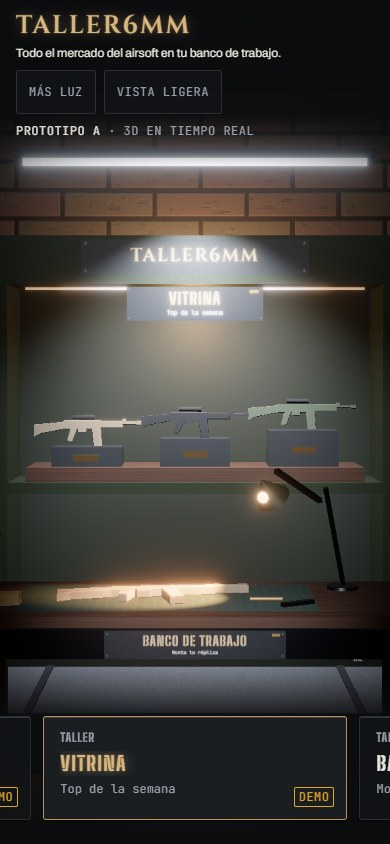
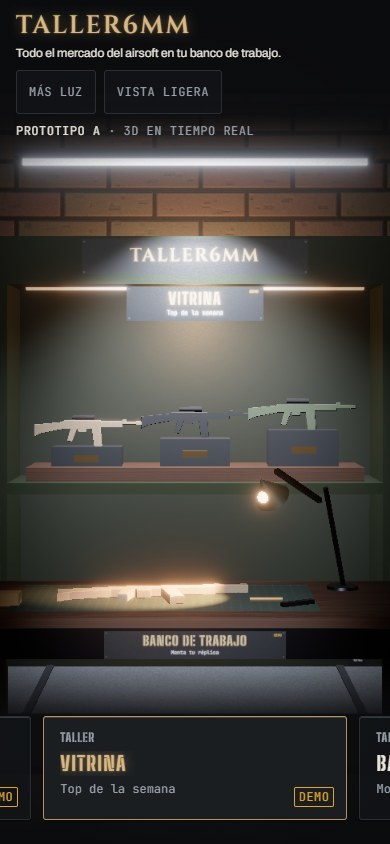
perf(armeria): bring the performance audit fixes to prototype A (spike)
Same A-side changes as the B branch: on-demand shadow maps, MSAA x2, mobile
DPR 1.25, 3D chunk fetched in parallel with the fonts, FPS watchdog falling
back to the poster under 30 FPS, no painting with the pointer at rest, cached
aisle geometry and 512x128 sign textures. New poster and captures.

Changed region(s): [[0.6462, 0.2773, 0.6769, 0.3081], [0.3385, 0.2773, 0.3692, 0.3081]]

diff --git a/apps/web/src/components/armeria/EscenaA.tsx b/apps/web/src/components/armeria/EscenaA.tsx
@@ -7,7 +7,7 @@ import { ToneMappingMode } from 'postprocessing';
 import { type RefObject, useEffect, useMemo, useRef } from 'react';
 import { Color, type PerspectiveCamera, Plane, Raycaster, Vector2, Vector3 } from 'three';
 import { anchoVisibleMovil, encuadreSala, encuadreZona, FOV } from './camara.ts';
-import type { CanalEscena } from './canal.ts';
+import { type CanalEscena, crearVigia } from './canal.ts';
 import { Director, VARIANTES, type Variante } from './director.ts';
 import { crearControl, Sala } from './Sala.tsx';
 import { ORDEN_ESTANTERIAS, ZONAS, zonaPorId } from './zonas.ts';
@@ -40,7 +40,9 @@ function Motor(props: EscenaAProps & { control: ReturnType<typeof crearControl> 
   const cam = camera as PerspectiveCamera;
   const listo = useRef(false);
   const introAvisada = useRef(false);
-  const lento = useRef({ desde: 0, avisado: false });
+  const vigia = useMemo(() => crearVigia(30), []);
+  const ultimoPuntero = useRef(0);
+  const sombrasPendientes = useRef(3);
   const tmp = useMemo(
     () => ({
       pos: new Vector3(),
@@ -68,7 +70,10 @@ function Motor(props: EscenaAProps & { control: ReturnType<typeof crearControl> 
       dentro.current = false;
       invalidate();
     };
-    const mover = () => invalidate();
+    const mover = () => {
+      ultimoPuntero.current = performance.now();
+      invalidate();
+    };
     el.addEventListener('pointerenter', entrar);
     el.addEventListener('pointerleave', salir);
     el.addEventListener('pointermove', mover);
@@ -110,6 +115,13 @@ function Motor(props: EscenaAProps & { control: ReturnType<typeof crearControl> 
     };
   }, [props.medir, gl, canal]);
 
+  // Sombras bajo demanda: las luces que las proyectan no se mueven; solo hace falta recalcularlas al
+  // empezar y mientras rueda un cuerpo del compactus (auditor-rendimiento: −65 % de draw calls).
+  useEffect(() => {
+    gl.shadowMap.autoUpdate = false;
+    gl.shadowMap.needsUpdate = true;
+  }, [gl]);
+
   useEffect(() => {
     canal.current.pintar = () => invalidate();
     invalidate();
@@ -144,7 +156,9 @@ function Motor(props: EscenaAProps & { control: ReturnType<typeof crearControl> 
           : 0;
       const antes = control.desplazamiento[e];
       control.desplazamiento[e] = antes + (objetivo - antes) * kMov;
-      movimiento += Math.abs(objetivo - control.desplazamiento[e]);
+      const resto = Math.abs(objetivo - control.desplazamiento[e]);
+      movimiento += resto;
+      if (resto > 1e-4 || Math.abs(antes - control.desplazamiento[e]) > 1e-5) sombrasPendientes.current = 2;
     }
 
     // Cámara: plano general, zona abierta o, en móvil, la zona del carrusel.
@@ -241,23 +255,16 @@ function Motor(props: EscenaAProps & { control: ReturnType<typeof crearControl> 
       }
     }
 
-    // Mediciones y caída al póster si la GPU no llega (docs/02 §3.6: ≥ 30 FPS o póster).
+    if (sombrasPendientes.current > 0) {
+      gl.shadowMap.needsUpdate = true;
+      sombrasPendientes.current--;
+    }
+
+    // Mediciones y caída al póster si no llega a 30 FPS (docs/02 §3.6). Con ?medir no cae: se mide tal cual.
     const f = canal.current.fotogramas;
     f.push(delta);
     if (f.length > 240) f.shift();
-    if (!director.enIntro && !lento.current.avisado && f.length >= 90) {
-      const media = f.slice(-90).reduce((s, d) => s + d, 0) / 90;
-      const seguidos = f.slice(-90).every((d) => d < 0.25);
-      if (seguidos && 1 / media < 24) {
-        lento.current.desde ||= performance.now();
-        if (performance.now() - lento.current.desde > 2500) {
-          lento.current.avisado = true;
-          props.onLento();
-        }
-      } else {
-        lento.current.desde = 0;
-      }
-    }
+    if (vigia(f, !director.enIntro && !props.medir, performance.now())) props.onLento();
 
     if (!listo.current) {
       listo.current = true;
@@ -268,8 +275,9 @@ function Motor(props: EscenaAProps & { control: ReturnType<typeof crearControl> 
       props.onIntroFin();
     }
     // Sigue pintando mientras algo se mueve.
-    const quieto =
-      director.enReposo && movimiento < 0.002 && !(dentro.current && director.luz.linterna > 0.01 && linternaPosible);
+    // Con el puntero quieto, la linterna llega a su sitio en unos 300 ms: después, la escena deja de pintar.
+    const punteroReciente = dentro.current && linternaPosible && performance.now() - ultimoPuntero.current < 400;
+    const quieto = director.enReposo && movimiento < 0.002 && !punteroReciente && sombrasPendientes.current === 0;
     if (props.medir || !quieto) invalidate();
   });
   return null;
@@ -298,7 +306,7 @@ export default function EscenaA(props: EscenaAProps) {
   return (
     <Canvas
       frameloop={medir ? 'always' : 'demand'}
-      dpr={[1, 1.5]}
+      dpr={[1, alta ? 1.5 : 1.25]}
       shadows={alta ? 'percentage' : false}
       flat
       gl={{ antialias: false, powerPreference: 'high-performance', preserveDrawingBuffer: medir, stencil: false }}
@@ -309,7 +317,7 @@ export default function EscenaA(props: EscenaAProps) {
       <fog attach="fog" args={['#040506', 9, 20]} />
       <Sala control={control} onApuntar={props.onApuntar} onElegir={props.onElegir} />
       <Motor {...props} control={control} />
-      <EffectComposer multisampling={alta ? 4 : 0} enableNormalPass={false}>
+      <EffectComposer multisampling={alta ? 2 : 0} enableNormalPass={false}>
         <Bloom
           mipmapBlur
           luminanceThreshold={0.92}

diff --git a/apps/web/src/components/armeria/texturas.ts b/apps/web/src/components/armeria/texturas.ts
@@ -254,21 +254,23 @@ export interface OpcionesRotulo {
  * JetBrains Mono. Sirve de mapa de color y de emisión: al encender el tubo, el rótulo se ilumina.
  */
 export function texturaRotulo(texto: string, opciones: OpcionesRotulo = {}) {
-  const ancho = opciones.ancho ?? 1024;
-  const alto = opciones.alto ?? 256;
+  // 512 × 128 basta: en pantalla la placa no pasa de unos 400 px ni con la cámara dentro (auditor-rendimiento).
+  const ancho = opciones.ancho ?? 512;
+  const alto = opciones.alto ?? 128;
+  const borde = Math.round(alto * 0.07);
   const { canvas, ctx } = lienzo(ancho, alto);
   ctx.fillStyle = opciones.fondo ?? '#15171a';
   ctx.fillRect(0, 0, ancho, alto);
   // Remaches de la chapa.
   ctx.fillStyle = 'rgb(232 228 220 / 0.22)';
   for (const [x, y] of [
-    [18, 18],
-    [ancho - 18, 18],
-    [18, alto - 18],
-    [ancho - 18, alto - 18],
+    [borde, borde],
+    [ancho - borde, borde],
+    [borde, alto - borde],
+    [ancho - borde, alto - borde],
   ] as const) {
     ctx.beginPath();
-    ctx.arc(x, y, 6, 0, Math.PI * 2);
+    ctx.arc(x, y, Math.max(2, alto * 0.024), 0, Math.PI * 2);
     ctx.fill();
   }
   const tinta = opciones.tinta ?? colors['laton-claro'];
@@ -281,18 +283,18 @@ export function texturaRotulo(texto: string, opciones: OpcionesRotulo = {}) {
     ? `600 ${Math.round(tamTitulo * 0.82)}px ${FONT_FAMILIES.grabado}`
     : `700 ${tamTitulo}px ${FONT_FAMILIES.rotulo}`;
   ctx.letterSpacing = `${Math.round(tamTitulo * (grabado ? 0.08 : 0.06))}px`;
-  ctx.fillText(texto.toUpperCase(), ancho / 2, opciones.dato ? alto * 0.38 : alto / 2, ancho - 60);
+  ctx.fillText(texto.toUpperCase(), ancho / 2, opciones.dato ? alto * 0.38 : alto / 2, ancho - borde * 3);
   if (opciones.dato) {
     ctx.letterSpacing = '0px';
     ctx.fillStyle = colors.hueso;
     ctx.font = `400 ${Math.round(alto * 0.17)}px ${FONT_FAMILIES.datos}`;
-    ctx.fillText(opciones.dato, ancho / 2, alto * 0.78, ancho - 60);
+    ctx.fillText(opciones.dato, ancho / 2, alto * 0.78, ancho - borde * 3);
   }
   if (opciones.demo) {
     ctx.textAlign = 'right';
     ctx.fillStyle = colors['estado-aviso'];
     ctx.font = `700 ${Math.round(alto * 0.11)}px ${FONT_FAMILIES.datos}`;
-    ctx.fillText('DEMO', ancho - 34, alto * 0.16);
+    ctx.fillText('DEMO', ancho - borde * 2, alto * 0.16);
   }
   grano(ctx, ancho, alto, 10, azar(texto.length * 97));
   return textura(canvas);

diff --git a/apps/web/src/components/armeria/Interfaz.tsx b/apps/web/src/components/armeria/Interfaz.tsx
@@ -340,16 +340,34 @@ export function InterfazArmeria({
       el?.scrollIntoView({ inline: 'center', block: 'nearest', behavior: estado.reducido ? 'auto' : 'smooth' });
   };
 
-  // Carrusel móvil: la tarjeta centrada es la zona activa y su posición mueve la cámara.
+  // Carrusel móvil: la tarjeta centrada es la zona activa y su posición mueve la cámara. La geometría de
+  // las tarjetas se mide una vez y se vuelve a medir al cambiar el tamaño: leer el layout en cada evento
+  // de scroll lo forzaba en cada fotograma (auditor-rendimiento).
+  const geometria = useRef<{ centro: number; paso: number; ancho: number } | null>(null);
+  useEffect(() => {
+    const el = nav.current;
+    if (!el || typeof ResizeObserver === 'undefined') return;
+    const observador = new ResizeObserver(() => {
+      geometria.current = null;
+    });
+    observador.observe(el);
+    return () => observador.disconnect();
+  }, []);
   const desplazar = (e: UIEvent<HTMLElement>) => {
     if (!estado.movil) return;
     const el = e.currentTarget;
-    const tarjetas = ZONAS.map((z) => zonas.current[z.id]).filter((t): t is HTMLAnchorElement => Boolean(t));
-    const primera = tarjetas[0];
-    const segunda = tarjetas[1];
-    if (!primera || !segunda) return;
-    const paso = segunda.offsetLeft - primera.offsetLeft || 1;
-    const progreso = (el.scrollLeft + el.clientWidth / 2 - (primera.offsetLeft + primera.offsetWidth / 2)) / paso;
+    if (!geometria.current) {
+      const primera = zonas.current[ZONAS[0]?.id ?? ''];
+      const segunda = zonas.current[ZONAS[1]?.id ?? ''];
+      if (!primera || !segunda) return;
+      geometria.current = {
+        centro: primera.offsetLeft + primera.offsetWidth / 2,
+        paso: segunda.offsetLeft - primera.offsetLeft || 1,
+        ancho: el.clientWidth,
+      };
+    }
+    const { centro, paso, ancho } = geometria.current;
+    const progreso = (el.scrollLeft + ancho / 2 - centro) / paso;
     onProgreso?.(progreso);
     const i = Math.round(Math.min(ZONAS.length - 1, Math.max(0, progreso)));
     const z = ZONAS[i];

diff --git a/apps/web/src/components/armeria/Sala.tsx b/apps/web/src/components/armeria/Sala.tsx
@@ -590,7 +590,7 @@ export function Sala({ control, onApuntar, onElegir }: SalaProps) {
           z.id,
           // El rótulo del banco es más apaisado (0,84 × 0,13 m): su textura también, para no estirarlo.
           materialRotulo(
-            texturaRotulo(z.rotulo, { dato: z.dato, demo: true, ...(z.id === 'banco' ? { alto: 160 } : {}) }),
+            texturaRotulo(z.rotulo, { dato: z.dato, demo: true, ...(z.id === 'banco' ? { alto: 80 } : {}) }),
           ),
         ]),
       ) as Record<string, MeshStandardMaterial>,
@@ -603,8 +603,8 @@ export function Sala({ control, onApuntar, onElegir }: SalaProps) {
           e,
           materialRotulo(
             texturaRotulo(e === 'centro' ? BRAND.name : ESTANTERIAS[e].titulo, {
-              ancho: 1024,
-              alto: 160,
+              ancho: 512,
+              alto: 80,
               // La marca, grabada en Cinzel como en el resto del sistema (docs/02 §4.2).
               familia: e === 'centro' ? 'grabado' : 'rotulo',
               tinta: e === 'centro' ? colors['laton-claro'] : colors.hueso,
@@ -619,12 +619,12 @@ export function Sala({ control, onApuntar, onElegir }: SalaProps) {
       Object.fromEntries(
         ORDEN_ESTANTERIAS.map((e) => [
           e,
-          texturaRotulo(ESTANTERIAS[e].numero, { ancho: 256, alto: 160, tinta: colors.hueso }),
+          texturaRotulo(ESTANTERIAS[e].numero, { ancho: 128, alto: 80, tinta: colors.hueso }),
         ]),
       ) as unknown as Record<Estanteria, Texture>,
     [],
   );
-  const apodo = useMemo(() => texturaRotulo('Invitado', { alto: 200, fondo: '#3b434b', tinta: colors.hueso }), []);
+  const apodo = useMemo(() => texturaRotulo('Invitado', { alto: 128, fondo: '#3b434b', tinta: colors.hueso }), []);
 
   // Objetivos de los focos (deben estar en la escena para que se actualice su matriz).
   const objetivos = useMemo(

diff --git a/apps/web/src/components/armeria/canal.ts b/apps/web/src/components/armeria/canal.ts
@@ -13,3 +13,37 @@ export interface CanalEscena {
 }
 
 export const crearCanal = (): CanalEscena => ({ director: null, progreso: 0, pintar: () => undefined, fotogramas: [] });
+
+/**
+ * Vigía de rendimiento (docs/02 §3.6: ≥ 30 FPS o póster). Mira los últimos 2 s de fotogramas seguidos
+ * (un hueco de más de 1 s es reposo de la escena, que pinta bajo demanda, no un fotograma lento) y avisa
+ * una sola vez si la media se queda por debajo del umbral durante 2,5 s. Cuenta también los fotogramas
+ * largos: son justo los que delatan a un equipo que no llega (auditor-rendimiento).
+ */
+export function crearVigia(umbral = 30) {
+  let desde = 0;
+  let avisado = false;
+  return (fotogramas: readonly number[], activo: boolean, ahora: number): boolean => {
+    if (avisado || !activo) {
+      desde = 0;
+      return false;
+    }
+    let suma = 0;
+    let n = 0;
+    for (let i = fotogramas.length - 1; i >= 0 && suma < 2; i--) {
+      const d = fotogramas[i] ?? 0;
+      if (d > 1) break;
+      suma += d;
+      n++;
+    }
+    if (suma < 1.5 || n < 3) return false;
+    if (n / suma >= umbral) {
+      desde = 0;
+      return false;
+    }
+    desde ||= ahora;
+    if (ahora - desde < 2500) return false;
+    avisado = true;
+    return true;
+  };
+}

diff --git a/apps/web/src/components/armeria/ArmeriaA.tsx b/apps/web/src/components/armeria/ArmeriaA.tsx
@@ -19,6 +19,8 @@ export default function ArmeriaA() {
     if (!escena) return;
     let vivo = true;
     const pedir = () => {
+      // El chunk 3D se descarga en paralelo a las fuentes; solo los rótulos necesitan esperarlas.
+      void import('./EscenaA.tsx');
       fuentesListas().then(() => {
         if (vivo) setCargar(true);
       });
